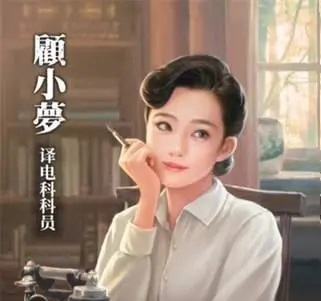
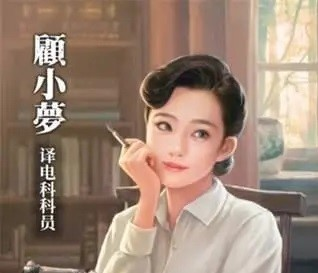
金口一开 牌移动位置 和 SP顾小梦图比例调整

diff --git a/Assets/Scrips/UI/GameUI.cs b/Assets/Scrips/UI/GameUI.cs
@@ -155,7 +155,7 @@ public class GameUI : MonoBehaviour, IPointerDownHandler
     internal void ShowExchangeMessageAndTop()
     {
         var uiCard = GameObject.Instantiate(itemCardUI, transCardsDised);
-        uiCard.transform.position = transCardsDised.position;
+        uiCard.transform.position = textDeckCount.transform.position;
         Vector3 to = messageCard.transform.position;
         StartCoroutine(DoMove(uiCard.transform,
         messageCard.transform.position,
@@ -169,7 +169,7 @@ public class GameUI : MonoBehaviour, IPointerDownHandler
 
         var uiCardMessage = GameObject.Instantiate(messageCard, transCardsDised);
         uiCardMessage.transform.position = messageCard.transform.position;
-        Vector3 to1 = transCardsDised.position;
+        Vector3 to1 = textDeckCount.transform.position;
         StartCoroutine(DoMove(uiCardMessage.transform,
         messageCard.transform.position,
         to1,
